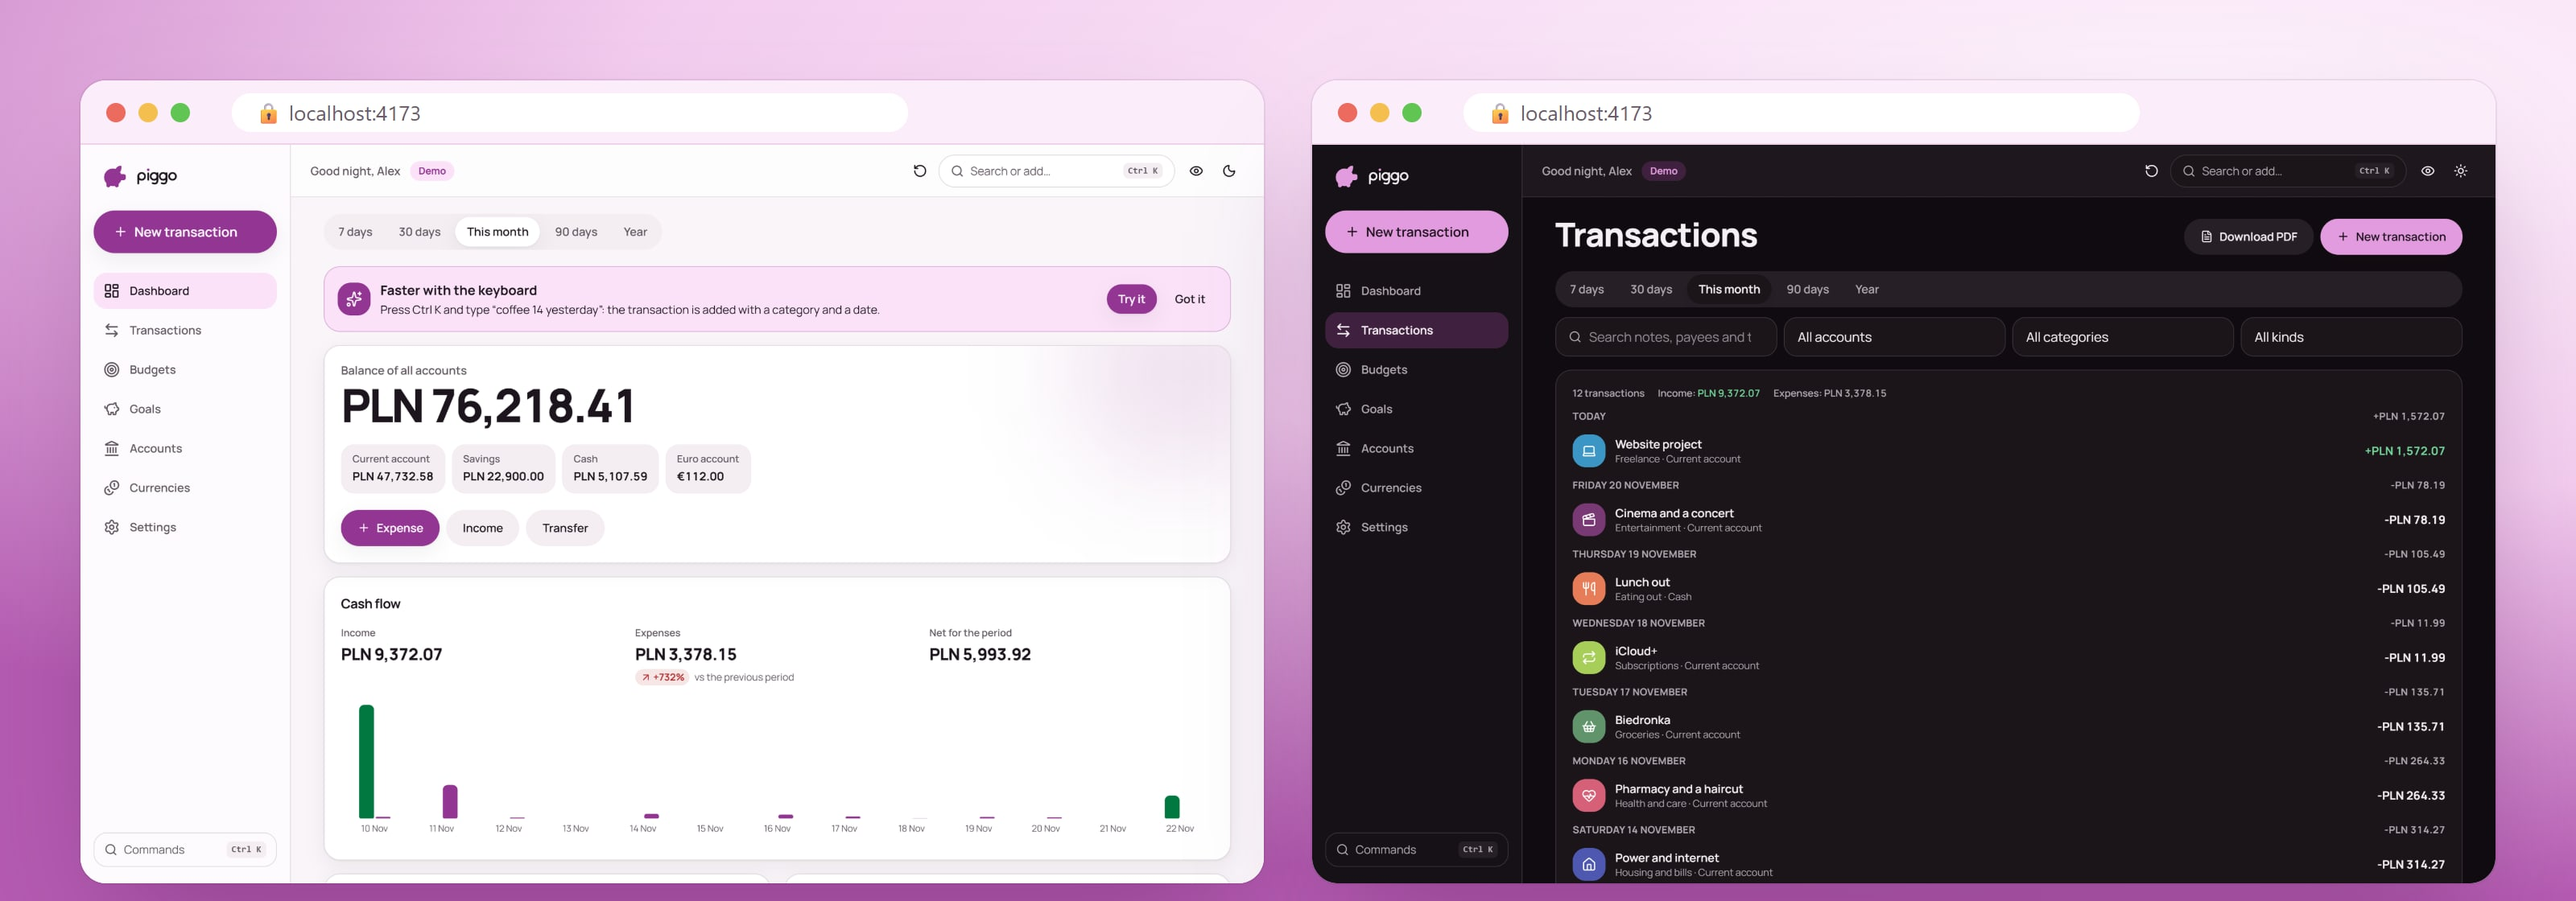
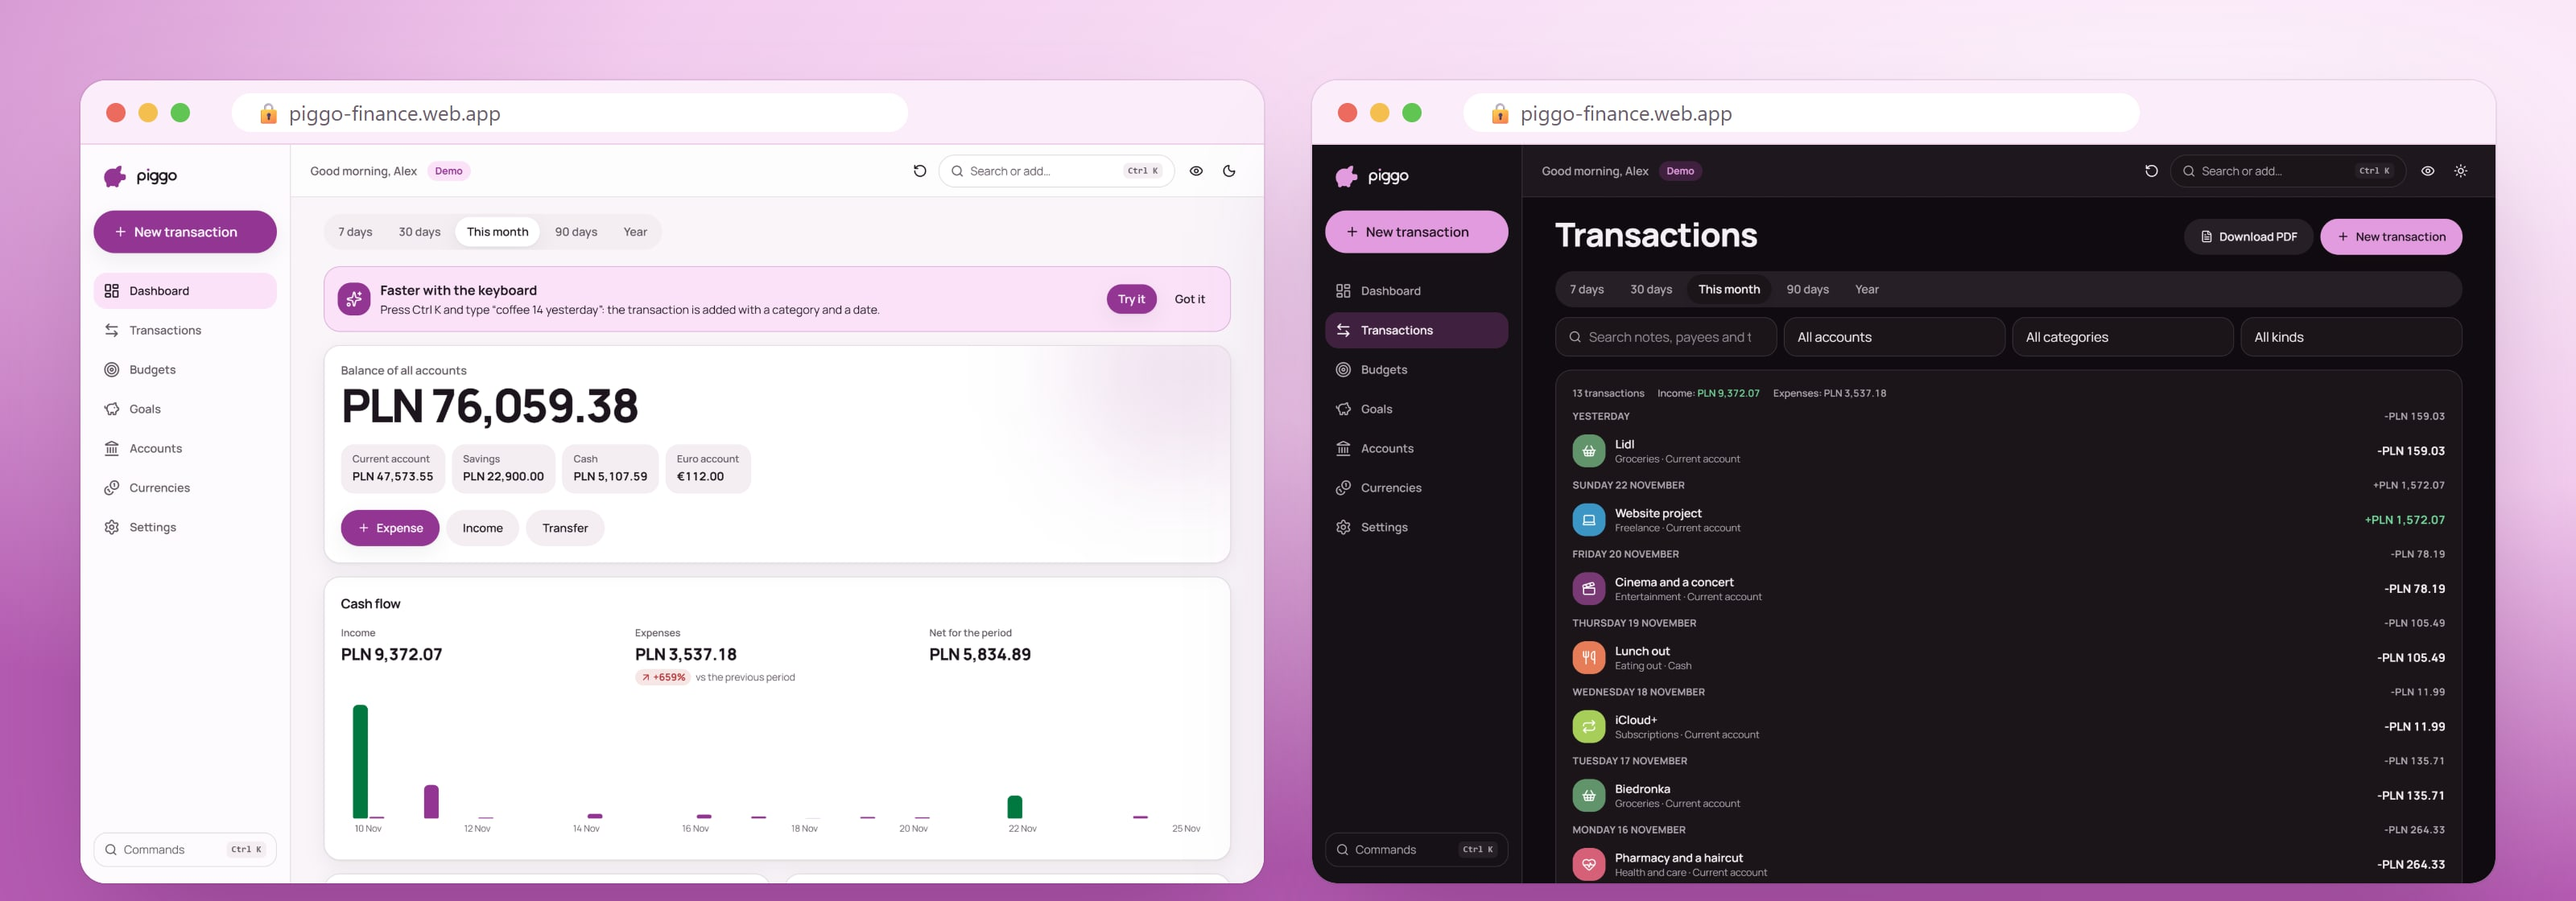
docs: link the live app and show its address
- Open site button and the new status in the README
- deployment steps, decision and repository settings for the new address
- README images with the live address

diff --git a/docs/deployment.md b/docs/deployment.md
@@ -2,7 +2,7 @@
 
 Aplikacja wersji 2 stoi na **Firebase Hosting** w tym samym projekcie Google co jej API i wersja 1. Hosting serwuje
 `dist/` z nagłówkami z `firebase.json` i przekazuje `/api/**` do usługi Cloud Run `finance-tracker-api` (repozytorium
-`finance-tracker-api`), więc aplikacja i API są pod jednym adresem. Wersja 1 (`personal-finance-manager` na GitHub Pages)
+`finance-tracker-api`), więc aplikacja i API są pod jednym adresem: <https://piggo-finance.web.app>. Wersja 1 (`personal-finance-manager` na GitHub Pages)
 działa dalej bez zmian. Konfiguracja kont i Workload Identity:
 [`finance-tracker-api/docs/deployment.md`](https://github.com/DamTchorzewski/finance-tracker-api/blob/develop/docs/deployment.md),
 krok 1 (ten sam skrypt w Cloud Shell dopuszcza oba nowe repozytoria i daje prawa do Hostingu).
@@ -10,16 +10,17 @@ krok 1 (ten sam skrypt w Cloud Shell dopuszcza oba nowe repozytoria i daje prawa
 ## 1. Firebase (w przeglądarce, jednorazowo)
 
 1. **console.firebase.google.com** → projekt → **Build → Hosting → Get started** (przejdź kroki, wdrożenia robi GitHub).
-   Adres aplikacji to `https://<project>.web.app`. Własna domena: Hosting → **Add custom domain** (np.
+   Potem na dole strony **Advanced → Add another site**: `piggo-finance` (bezpłatna druga witryna, adres aplikacji to
+   `https://piggo-finance.web.app`). Domyślna witryna `<project>.web.app` tylko przekierowuje na nią (`firebase.json`,
+   `hosting/old-address`). Własna, kupiona domena (opcjonalnie): **Add custom domain** (np.
    `finanse.example.pl`), rekordy DNS z konsoli u rejestratora.
-2. **Authentication → Settings → Authorized domains**: `<project>.web.app` jest tam od początku; dodaj tylko własną
-   domenę, jeśli jest.
+2. **Authentication → Settings → Authorized domains → Add domain**: `piggo-finance.web.app` (i własna domena, jeśli jest).
 3. **Project settings → General → Your apps**: ta sama aplikacja web co w wersji 1 (pięć wartości `firebaseConfig`).
-   `authDomain` ustaw na adres aplikacji na Hostingu (np. `<project>.web.app`), nie `<project>.firebaseapp.com`: wtedy
+   `authDomain` ustaw na adres aplikacji na Hostingu (`piggo-finance.web.app`), nie `<project>.firebaseapp.com`: wtedy
    pomocnik logowania Google działa na tej samej stronie.
 4. **Google Cloud → APIs & Services → Credentials → OAuth 2.0 Client IDs → Web client**: dodaj (obecne wpisy zostają)
-   _Authorized JavaScript origins_ `https://<project>.web.app` i _Authorized redirect URIs_
-   `https://<project>.web.app/__/auth/handler`. Bez tego logowanie Google kończy się błędem `redirect_uri_mismatch`.
+   _Authorized JavaScript origins_ `https://piggo-finance.web.app` i _Authorized redirect URIs_
+   `https://piggo-finance.web.app/__/auth/handler`. Bez tego logowanie Google kończy się błędem `redirect_uri_mismatch`.
    Własna domena: to samo dla niej.
 5. (Zalecane) **Google Cloud → APIs & Services → Credentials → Browser key** (klucz web Firebase) → **Application
    restrictions: Websites**: adres aplikacji, `localhost:5173` oraz `damtchorzewski.github.io` i

diff --git a/README.md b/README.md
@@ -11,6 +11,8 @@
 
 ## About
 
+<a href="https://piggo-finance.web.app"><img src="docs/images/open-site.png" alt="Open the live site" width="130"></a>
+
 **finance-tracker** (brand **Piggo**) is version 2 of a personal finance app: accounts in any currency, transactions, budgets and the
 exchange rates of the National Bank of Poland in one calm, fast web app for the phone and the computer. It is the
 successor of the team project [`personal-finance-manager`](https://github.com/DamTchorzewski/personal-finance-manager),
@@ -42,10 +44,8 @@ from which this repository was copied with its history and then rebuilt from scr
 - **Built to the standards.** WCAG 2.2 AA in both themes (axe in the e2e tests), security headers and CSP on Firebase
   Hosting, heavy code (charts, Firebase) loaded on demand.
 
-> **Status:** release 1 in progress (2026-11-21): the app runs end to end in the demo; the sign-in and the live site
-> wait for the Google setup in [docs/deployment.md](docs/deployment.md). The plan is [docs/redesign-plan.md](docs/redesign-plan.md).
-> The app carries the Piggo brand ([docs/brand.md](docs/brand.md)). There is no live site yet, so no "Open site"
-> button.
+> **Status:** release 1 is live (2026-11-25) at [piggo-finance.web.app](https://piggo-finance.web.app), with the Piggo
+> brand ([docs/brand.md](docs/brand.md)). The plan is [docs/redesign-plan.md](docs/redesign-plan.md).
 
 ## Tech stack
 
@@ -126,7 +126,8 @@ src/
 public/                  theme.js (no flash of the wrong theme), icon, manifest
 tests/e2e/               smoke, flows and accessibility tests
 scripts/health-check.ts  the live check after a deploy and every Monday
-firebase.json            Hosting: headers, CSP, caching, /api rewrite
+firebase.json            Hosting: headers, CSP, caching, /api rewrite; the old address redirects
+hosting/old-address/     the service worker that cleans up at the old address
 ```
 
 ## Branches and workflows
@@ -140,8 +141,6 @@ Monday (`workflows.md`, level 3).
 
 - **Copied history of a team project:** the repository keeps the history of `personal-finance-manager` (team work) and
   its MIT notice, with the version 2 author added; see [docs/decisions.md](docs/decisions.md).
-- **No "Open site" button:** the app is not deployed yet (it waits for the Google setup); the frames show the local
-  preview address.
 
 ## Documentation
 

diff --git a/docs/decisions.md b/docs/decisions.md
@@ -52,3 +52,8 @@ Dane demo nie są zapisywane do IndexedDB, bo i tak żyją w localStorage.
 Kwoty to liczby całkowite w jednostkach podstawowych z kodem ISO 4217 (jak w API). Wartość w PLN po kursie NBP z dnia
 transakcji jest zapisywana raz, więc raport z marca nie zmienia się, gdy zmieniają się kursy; raport w innej walucie
 głównej przelicza tę wartość po dzisiejszym kursie.
+
+## 2026-11-25: adres piggo-finance.web.app
+
+Właściciel wybrał bezpłatną drugą witrynę Firebase Hosting zamiast adresu z ID projektu i zamiast powrotu na GitHub
+Pages. Domyślna witryna zostaje i przekierowuje na nowy adres.

diff --git a/docs/repository.md b/docs/repository.md
@@ -18,7 +18,7 @@ Nazwa marki (logo, nazwa w aplikacji) jest wybierana osobno i trafi do opisu, gd
 Personal finance tracker: React 19, TypeScript and Tailwind CSS PWA with multi-currency accounts at NBP rates, budgets, a command palette and a demo; Firebase Auth, Hosting and a Cloud Run API.
 ```
 
-**Strona (Website):** adres na Firebase Hosting po pierwszym wdrożeniu (`https://<project>.web.app` albo własna domena).
+**Strona (Website):** <https://piggo-finance.web.app>
 
 **Tagi (Topics):**
 
